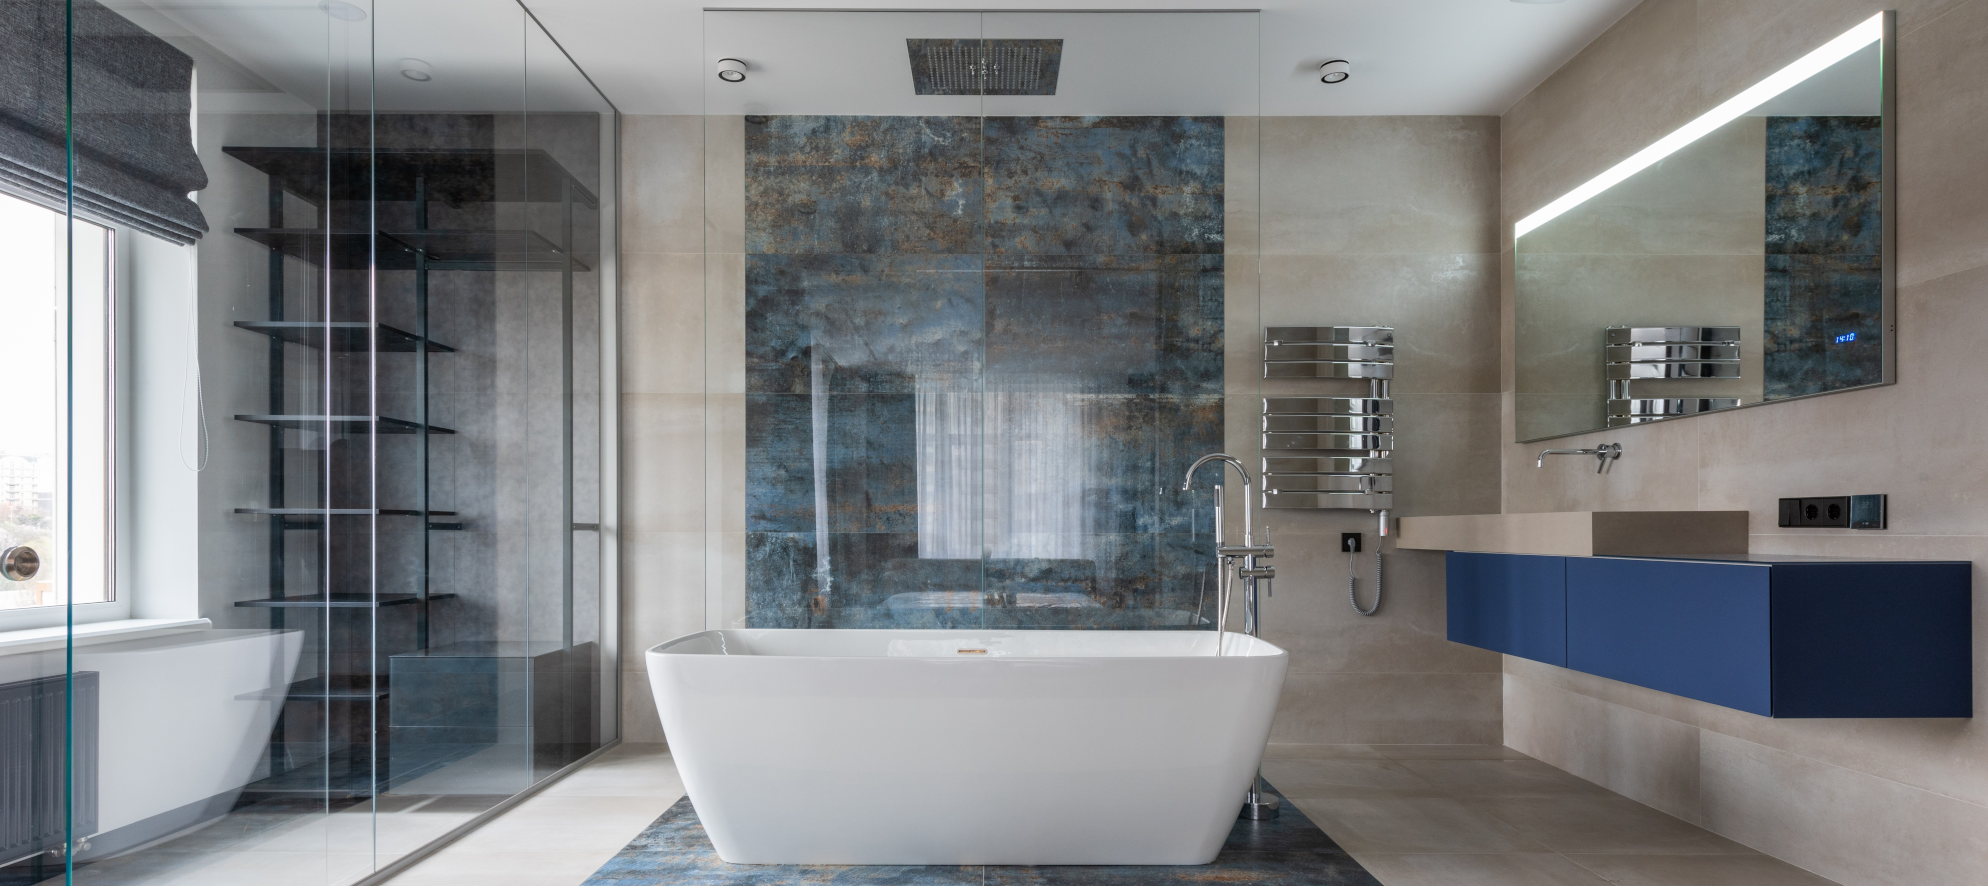
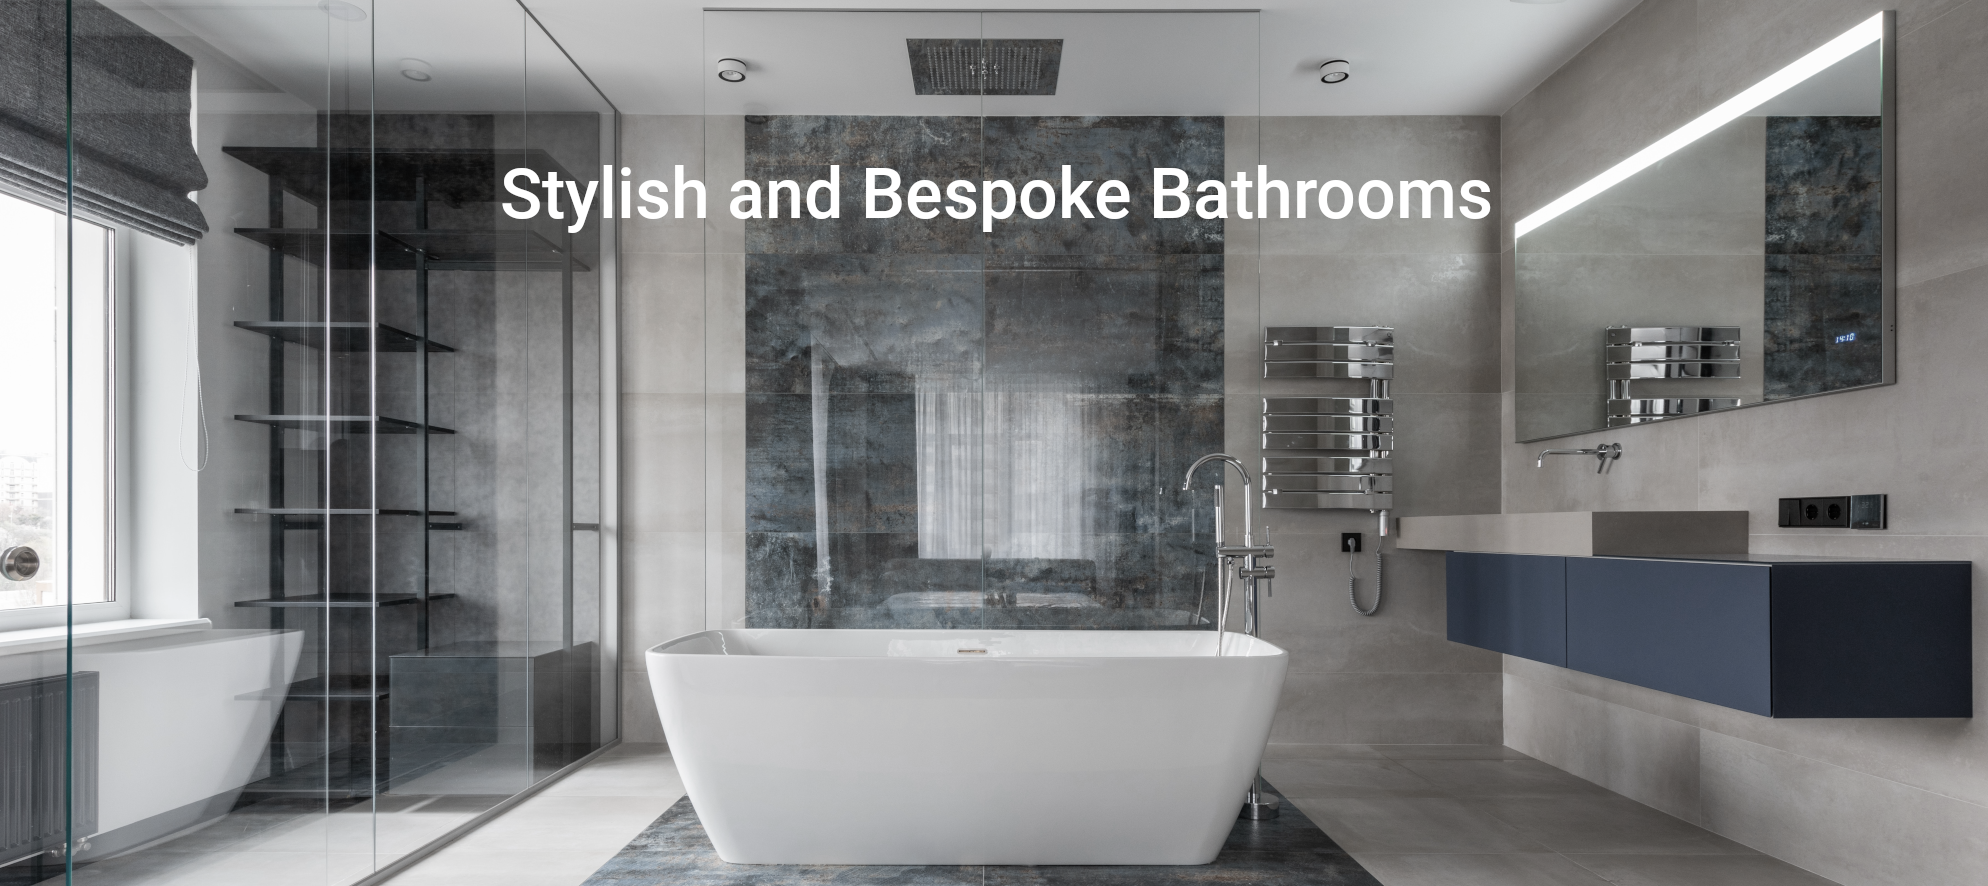
Add new assets

Changed region(s): [[0.2495, 0.1828, 0.7485, 0.2743]]

diff --git a/src/App.js b/src/App.js
@@ -26,7 +26,7 @@ const theme = createMuiTheme({
     ],
     h4: {
       fontWeight: 600,
-      fontSize: 35,
+      fontSize: 45,
       lineHeight: '2rem',
       },
     h5: {
@@ -42,11 +42,28 @@ const styles = makeStyles({
     margin: "auto",
     textAlign: "center"
   },
+  ['@media (max-width:905px)']: { 
+    fontSize: "25",    },
+  imageContainer: {
+    marginTop: "1.5rem",
+    width: "100%",
+    display: "block",
+    marginLeft: "auto",
+    marginRight: "auto"
+  },
   bigSpace: {
     marginTop: "5rem"
   },
   littleSpace:{
     marginTop: "2.5rem",
+  },
+  overlay:{
+    marginTop: "2.5rem",
+    position: "absolute",
+    top: "50%",
+    left: "50%",
+    transform: "translate(-50%, -370%)",
+    color: "white"
   },
   grid:{
     display: "flex", 
@@ -60,7 +77,6 @@ const styles = makeStyles({
     display: "block",
     marginLeft: "auto",
     marginRight: "auto",
-    filter: "grayscale(50%)",
     objectFit: "cover",
     objectPosition: "20% 10%"
   },
@@ -73,18 +89,17 @@ function App() {
     <div className="App">
       <ThemeProvider theme={theme}>
         <NavBar />
-        <img src={Hero} alt="Some legs in a bath" className={classes.hero} />
+        <div className={classes.imageContainer}>
+          <img src={Hero} alt="Hero" className={classes.hero} />
+        </div>
         <div className={classes.wrapper}>
-          <Typography variant="h4" className={classes.littleSpace} color="primary">
-             Stylish and Bespoke Bathrooms
-          </Typography>
           <Typography variant="h5" className={classes.littleSpace} color="primary">
             High quality bathroom furniture and showers in Gloucester. We stock all the latest designs from the UK's best manufacturers. Come and see our showroom today!
           </Typography>
         </div>
         <div className={`${classes.grid} ${classes.littleSpace}`}>
-          <Grid icon={<BathtubIcon style={{fill: "#4f25f7", height:"125", width:"125"}}/>}  title="Latest Styles" btnTitle="Show me More" link="/projects" />
-          <Grid icon={<BuildIcon style={{fill: "#7460cc", height:"125", width:"125"}}/>} title="Installation" btnTitle="Show me More" link="/about" />
+          <Grid icon={<BathtubIcon style={{fill: "#7050f2", height:"125", width:"125"}}/>}  title="Latest Styles" btnTitle="Show me More" link="/projects" />
+          <Grid icon={<BuildIcon style={{fill: "#8375bf", height:"125", width:"125"}}/>} title="Installation" btnTitle="Show me More" link="/about" />
           <Grid icon={<LocalShippingIcon style={{fill: "#645f78", height:"125", width:"125"}}/>}  title="Local Delivery" btnTitle="Show me More" link="/about" />
           <Grid icon={<ComputerIcon style={{fill: "#4b4954", height:"125", width:"125"}}/>}  title="CAD Designed" btnTitle="Show me More" link="/projects"/>
         </div>

diff --git a/src/About.js b/src/About.js
@@ -4,6 +4,12 @@ import { Typography } from '@material-ui/core';
 import NavBar from './components/NavBar';
 import Footer from './components/Footer';
 
+import alliance from './components/assets/alliance.jpg';
+import bristan from './components/assets/bristan.jpg';
+import eastbrook from './components/assets/eastbrook.jpg';
+import grohe from './components/assets/grohe.jpg';
+import heritage from './components/assets/heritage.jpg';
+
 const theme = createMuiTheme({
     palette: {
       primary: {
@@ -64,7 +70,7 @@ const theme = createMuiTheme({
             <NavBar />
             <div className={classes.wrapper}>
               <Typography variant="h4" className={classes.littleSpace} color="primary">
-                 About us
+                 About Us
               </Typography>
               <div className={classes.littleSpace}></div>
               <ul className={classes.list}>
@@ -92,6 +98,15 @@ const theme = createMuiTheme({
               Contact Aqua Bathrooms Direct Ltd for first-rate bathroom suppliers that offers the secret for a relaxing and indulgent new bathroom.
 
               </Typography>
+              <br />
+              <div className={classes.grid}>
+                <img src={alliance} alt="Alliance logo" style={{ padding: "5px" }} />
+                <img src={bristan} alt="Bristan logo" style={{ padding: "5px" }} />
+                <img src={eastbrook} alt="Eastbrook logo" style={{ padding: "5px" }} />
+                <img src={grohe} alt="Grohe logo" style={{ padding: "5px" }} />
+                <img src={heritage} alt="Heritage logo" style={{ padding: "5px" }} />
+              </div>
+              <br />
               <ul className={classes.list}>
                 <li>We use a large range of suppliers that allows us to get the right product for our customers at the right price</li>
                 <li>We also use a large range of suppliers to help us in keeping up with the latest trends and fashions in the bathroom industry</li>

diff --git a/src/Projects.js b/src/Projects.js
@@ -106,7 +106,7 @@ const theme = createMuiTheme({
             <NavBar />
             <div className={classes.wrapper}>
               <Typography variant="h4" className={classes.littleSpace} color="primary">
-                 Recent projects
+                 Recent Projects
               </Typography>
               <div className={classes.littleSpace}>
               {projectList.map(project => {

diff --git a/src/components/NavBar.js b/src/components/NavBar.js
@@ -30,7 +30,7 @@ const styles = makeStyles({
         "&:hover": {
             color:  "#4f25c8"
         },
-        ['@media (max-width:780px)']: { 
+        '@media (max-width:780px)': { 
             paddingBottom: "1rem"    }
     }
 })
